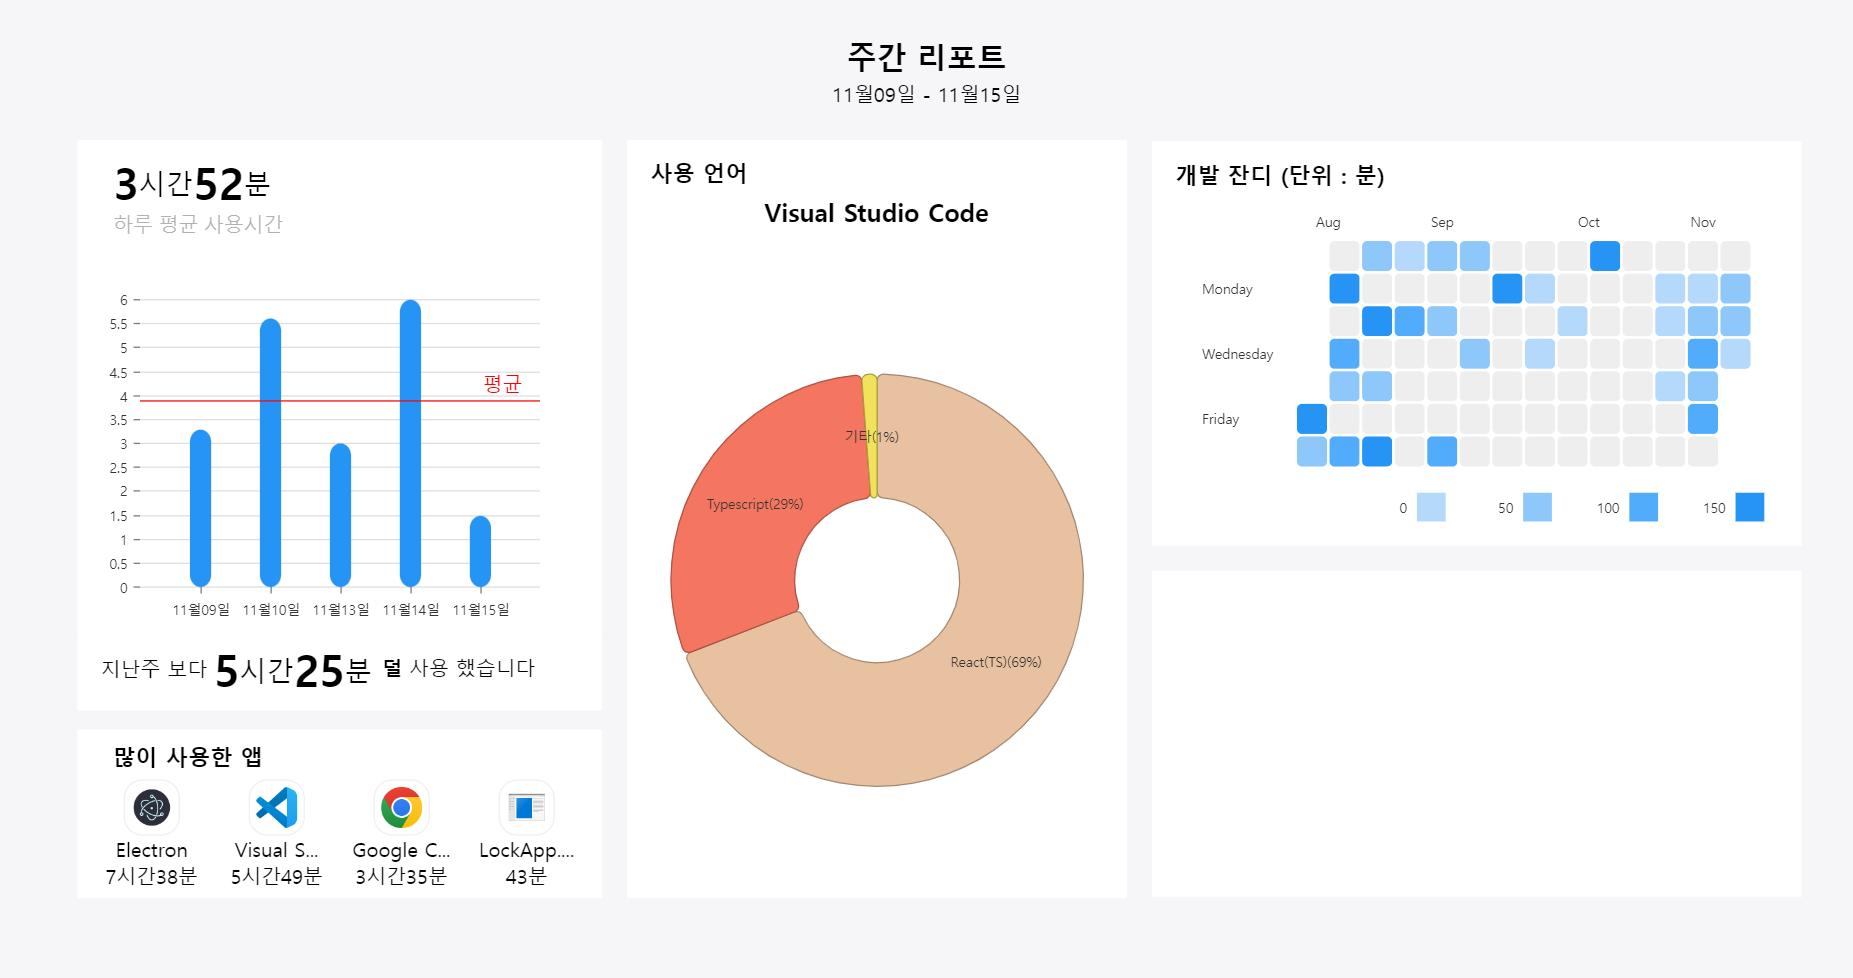
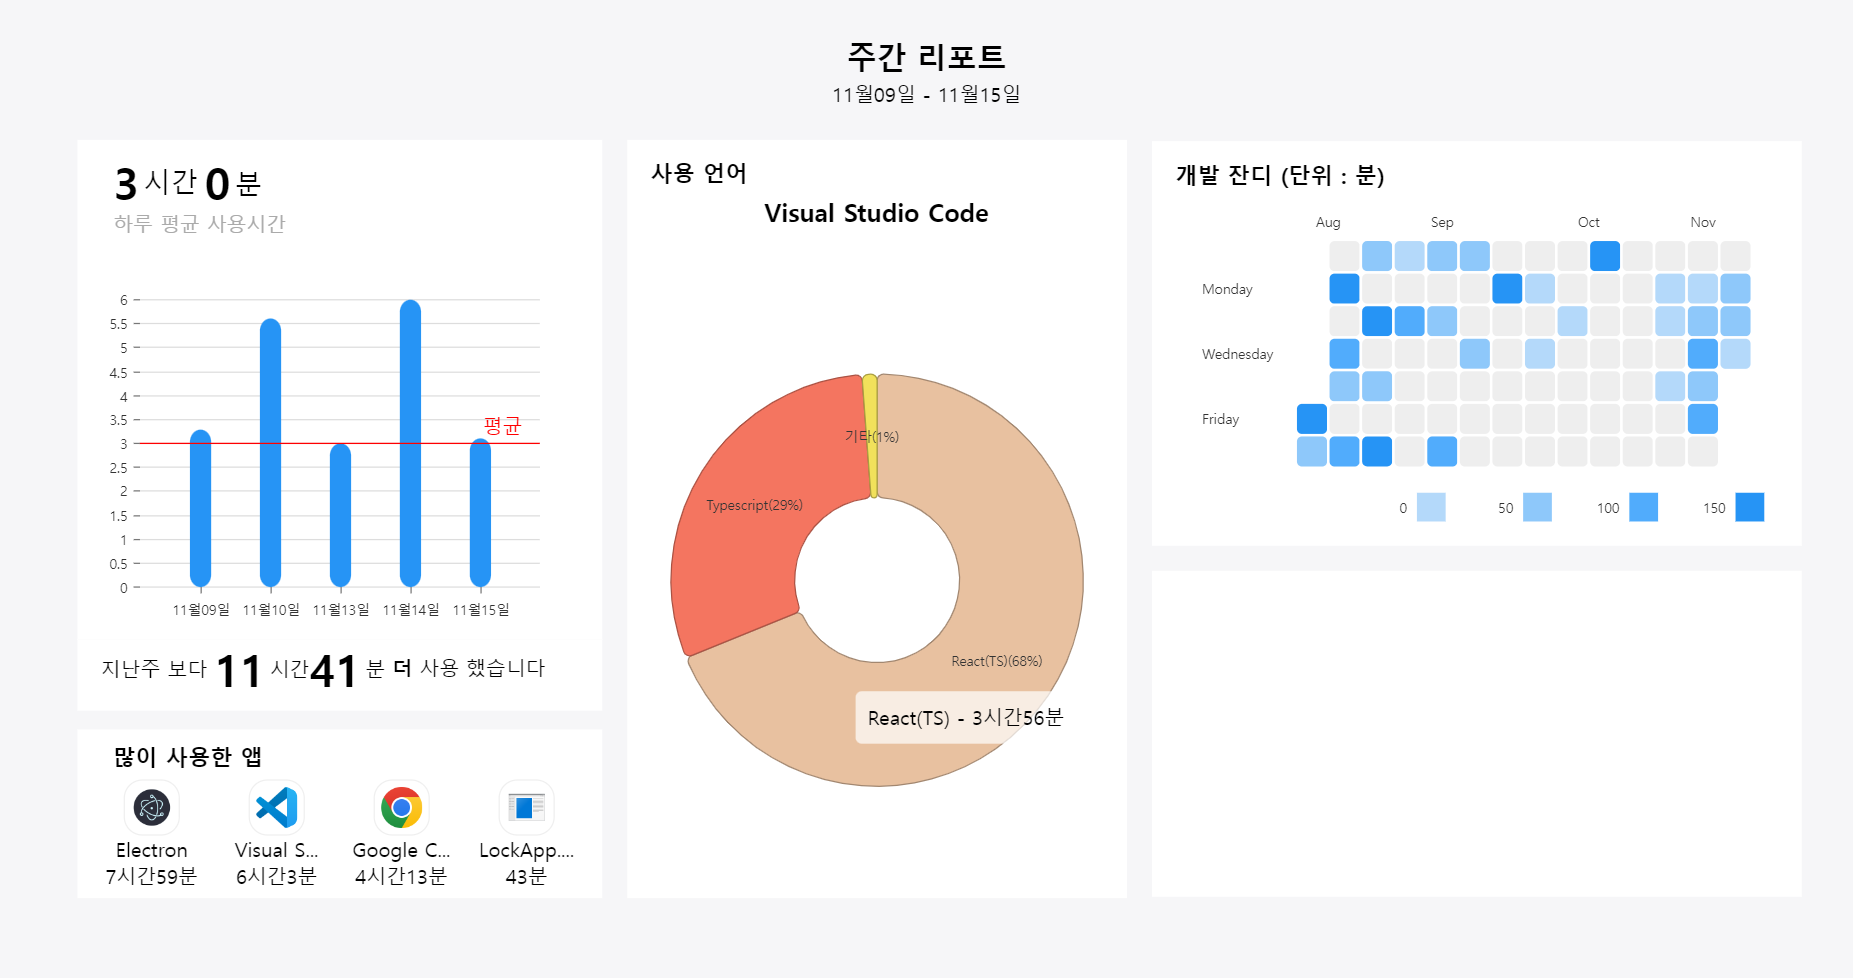
Feat :
Former-commit-id: ef588a93f4df4de414157e998caeba7ff6770551

diff --git a/electron/src/renderer/pages/CreatedChart.tsx b/electron/src/renderer/pages/CreatedChart.tsx
@@ -79,20 +79,20 @@ function CreatedChart() {
   // const highestMin = Math.floor((highestTime % 1) * 60, 0);
 
   // 이번주 사용시간
-  const timeSum: number = result.reduce((sum, data) => sum + data.time, 0); // 이번주 사용시간
-  const timeAvg: number = timeSum / result.length; // 이번주 사용시간 평균
+  const timeSum: number = result.reduce((sum, data) => sum + data.time, 0); // 이번주 사용시간 (시간단위 2.3 혹은 3.4 )
+  const timeAvg: number = timeSum / 7; // 이번주 사용시간 평균
   const timeAvgHour: number = Math.floor(timeAvg, 0); // 이번주 사용시간 평균 (시)
   const timeAvgMin: number = Math.floor((timeAvg % 1) * 60, 0); // 이번주 사용시간 평균 (분)
 
   // 지난주 사용시간 합
-  const lastTimeSum = lastWeek[0].time;
+  const lastTimeSum = lastWeek[0].time; // 시간단위 2.3 혹은 3.4
 
   // 이번주와 지난주 비교
-  const avgDiff = timeAvg - lastTimeSum; // 양수 : 더 많이 사용, 음수 : 덜 사용
+  const sumDiff = timeSum - lastTimeSum; // 양수 : 더 많이 사용, 음수 : 덜 사용
 
-  const absAvgDiff = Math.abs(avgDiff);
-  const absAvgDiffHour: number = Math.floor(absAvgDiff, 0);
-  const absAvgDiffMin: number = Math.floor((absAvgDiff % 1) * 60, 0);
+  const sumAbsDiff = Math.abs(sumDiff);
+  const sumAbsDiffHour: number = Math.floor(sumAbsDiff, 0);
+  const sumAbsDiffMin: number = Math.floor((sumAbsDiff % 1) * 60, 0);
 
   return (
     <div
@@ -122,8 +122,9 @@ function CreatedChart() {
         <div>
           <S.BarContainer>
             <S.BarHeader>
-              <S.Bolder>{timeAvgHour}</S.Bolder>시간{' '}
-              <S.Bolder>{timeAvgMin}</S.Bolder>분
+              <S.Bolder>{timeAvgHour}</S.Bolder>
+              <p style={{ marginRight: '5px' }}>시간</p>{' '}
+              <S.Bolder> {timeAvgMin}</S.Bolder>분
             </S.BarHeader>
             <S.Lighter>하루 평균 사용시간</S.Lighter>
 
@@ -171,10 +172,10 @@ function CreatedChart() {
           <S.LastWeekContainer>
             지난주 보다&nbsp;
             <S.LastWeekHeader>
-              <S.Bolder> {absAvgDiffHour}</S.Bolder>시간{' '}
-              <S.Bolder> {absAvgDiffMin} </S.Bolder>분&nbsp;
+              <S.Bolder> {sumAbsDiffHour}</S.Bolder>시간{' '}
+              <S.Bolder> {sumAbsDiffMin} </S.Bolder>분&nbsp;
             </S.LastWeekHeader>
-            {avgDiff < 0 ? (
+            {sumDiff < 0 ? (
               <p>
                 {' '}
                 <b>덜</b> 사용 했습니다
@@ -200,7 +201,7 @@ function CreatedChart() {
             type="weekly"
           />
         </S.MostDetailContainer>
-        
+
         <div style={{ height: '600px' }}>
           <S.GrassContainer>
             <S.MostLangTitle>개발 잔디 (단위 : 분)</S.MostLangTitle>

diff --git a/electron/src/main/ipcMainHandler/mailHandler.ts b/electron/src/main/ipcMainHandler/mailHandler.ts
@@ -189,7 +189,7 @@ const reportTestHandler = () => {
     const chartWindow = new BrowserWindow({
       width: 1500,
       height: 800,
-      show: false,
+      show: true,
       transparent: false,
       focusable: true,
       frame: false,
@@ -201,7 +201,7 @@ const reportTestHandler = () => {
     });
     await chartWindow.loadURL(resolveHtmlPath('index.html'));
     chartWindow.webContents.send('sub', 'createchart');
-    chartWindow.webContents.closeDevTools();
+    // chartWindow.webContents.closeDevTools();
   }, 5000);
 };
 

diff --git a/electron/src/renderer/components/report/Report.style.ts b/electron/src/renderer/components/report/Report.style.ts
@@ -9,7 +9,6 @@ const BarHeader = styled.div`
 
 const LastWeekHeader = styled.div`
   display: flex;
-  font-size: 22px;
   align-items: center;
 `;
 
@@ -34,12 +33,13 @@ const Title = styled.h2`
 const Bolder = styled.div`
   font-weight: bolder;
   font-size: 35px;
+  margin-right: 4px;
 `;
 
 const Lighter = styled.div`
-  font-weight: lighter;
   margin-left: 19px;
-  color: #b1b1b1;
+  color: #aaaaaa;
+  font-weight: normal;
 `;
 
 const BarContainer = styled.div`

diff --git a/electron/src/renderer/pages/GoogleOAuth.tsx b/electron/src/renderer/pages/GoogleOAuth.tsx
@@ -9,7 +9,6 @@ function GoogleOAuth() {
     const form = document.createElement('form');
     form.setAttribute('method', 'GET'); // Send as a GET request.
     form.setAttribute('action', oauth2Endpoint);
-
     // Parameters to pass to OAuth 2.0 endpoint.
     const params = {
       client_id:

diff --git a/electron/src/renderer/pages/MenuModal.tsx b/electron/src/renderer/pages/MenuModal.tsx
@@ -29,7 +29,6 @@ function MenuModal() {
     { path: 'weather', icon: weather },
     { path: 'notification', icon: LuMailSearch },
     { path: 'email', icon: LuMailPlus },
-    { path: 'createchart', icon: report },
   ];
 
   const handleWheel = (event: React.WheelEvent<HTMLDivElement>) => {

diff --git a/electron/src/renderer/pages/MyEmail.tsx b/electron/src/renderer/pages/MyEmail.tsx
@@ -46,7 +46,7 @@ function MyEmail() {
           navigate('/registemail');
         }}
       >
-        이메일 등록하기
+        이메일 등록
       </S.Button>
     </S.Container>
   );

diff --git a/electron/src/renderer/components/menu/MenuModal.scss b/electron/src/renderer/components/menu/MenuModal.scss
@@ -134,7 +134,7 @@
   }
 }
 
-$numOfElems: 9;
+$numOfElems: 8;
 
 @for $i from 1 through $numOfElems {
   $deg: calc(360deg / $numOfElems);
